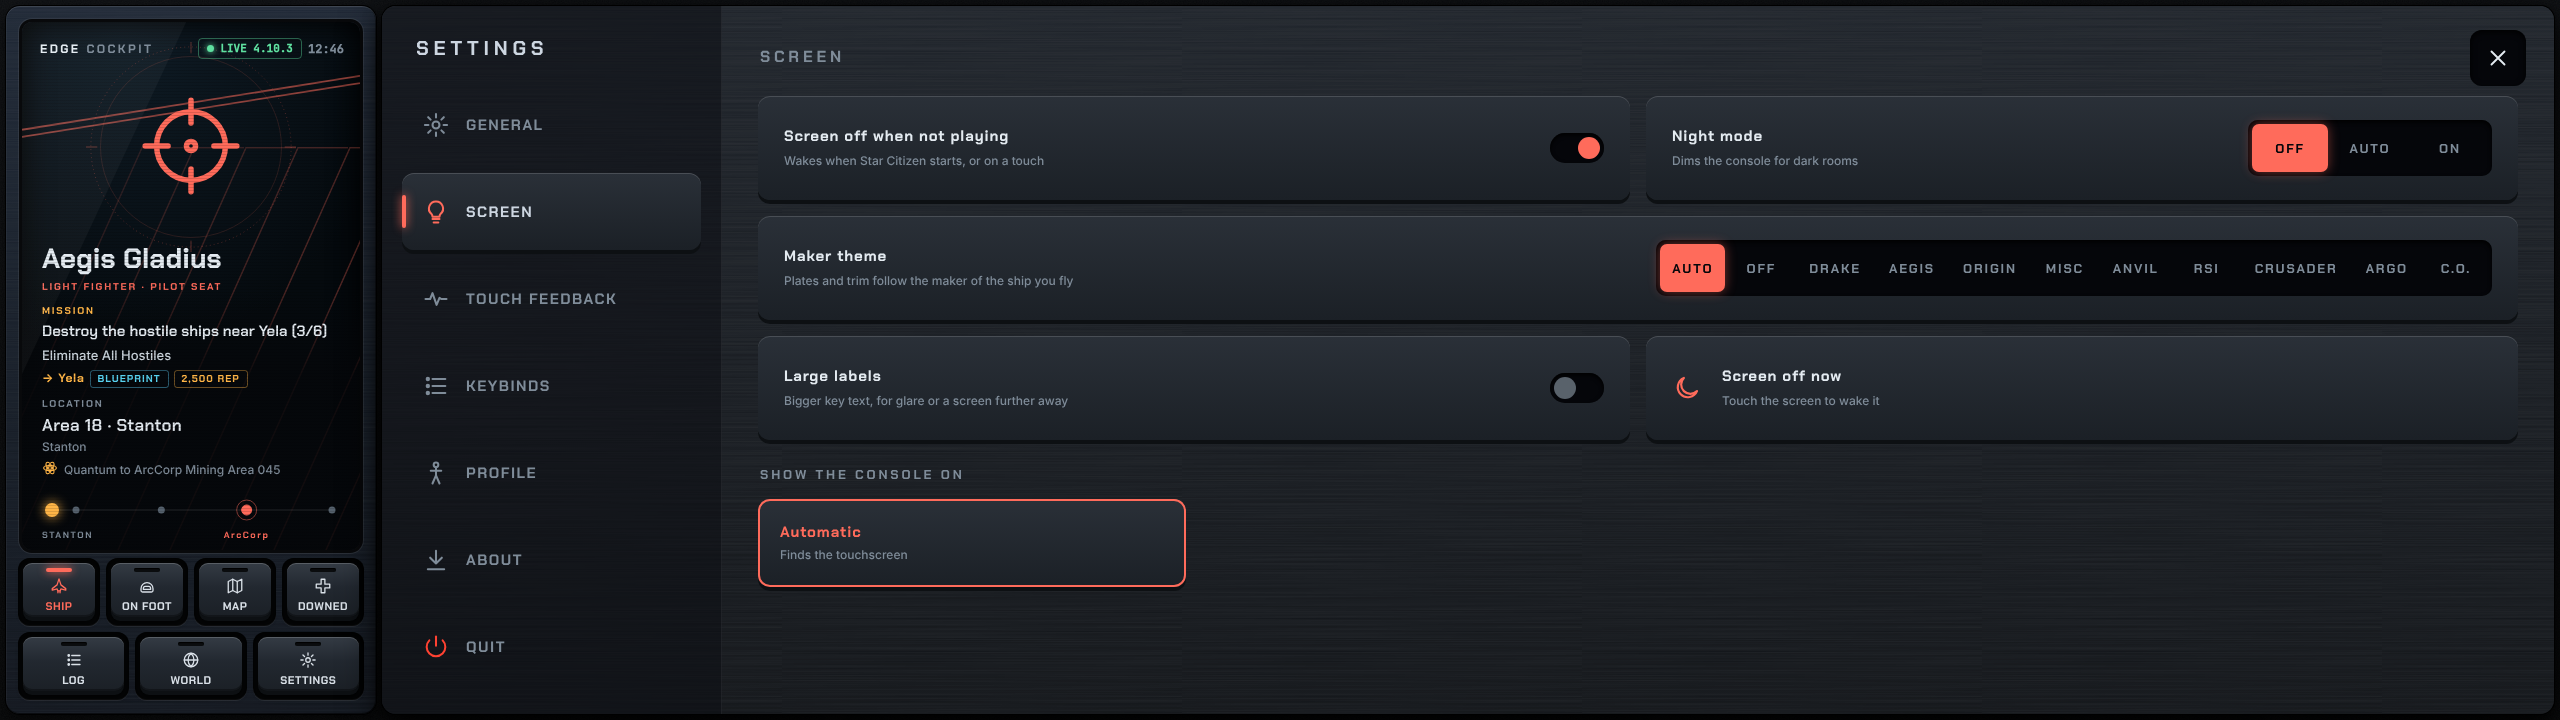
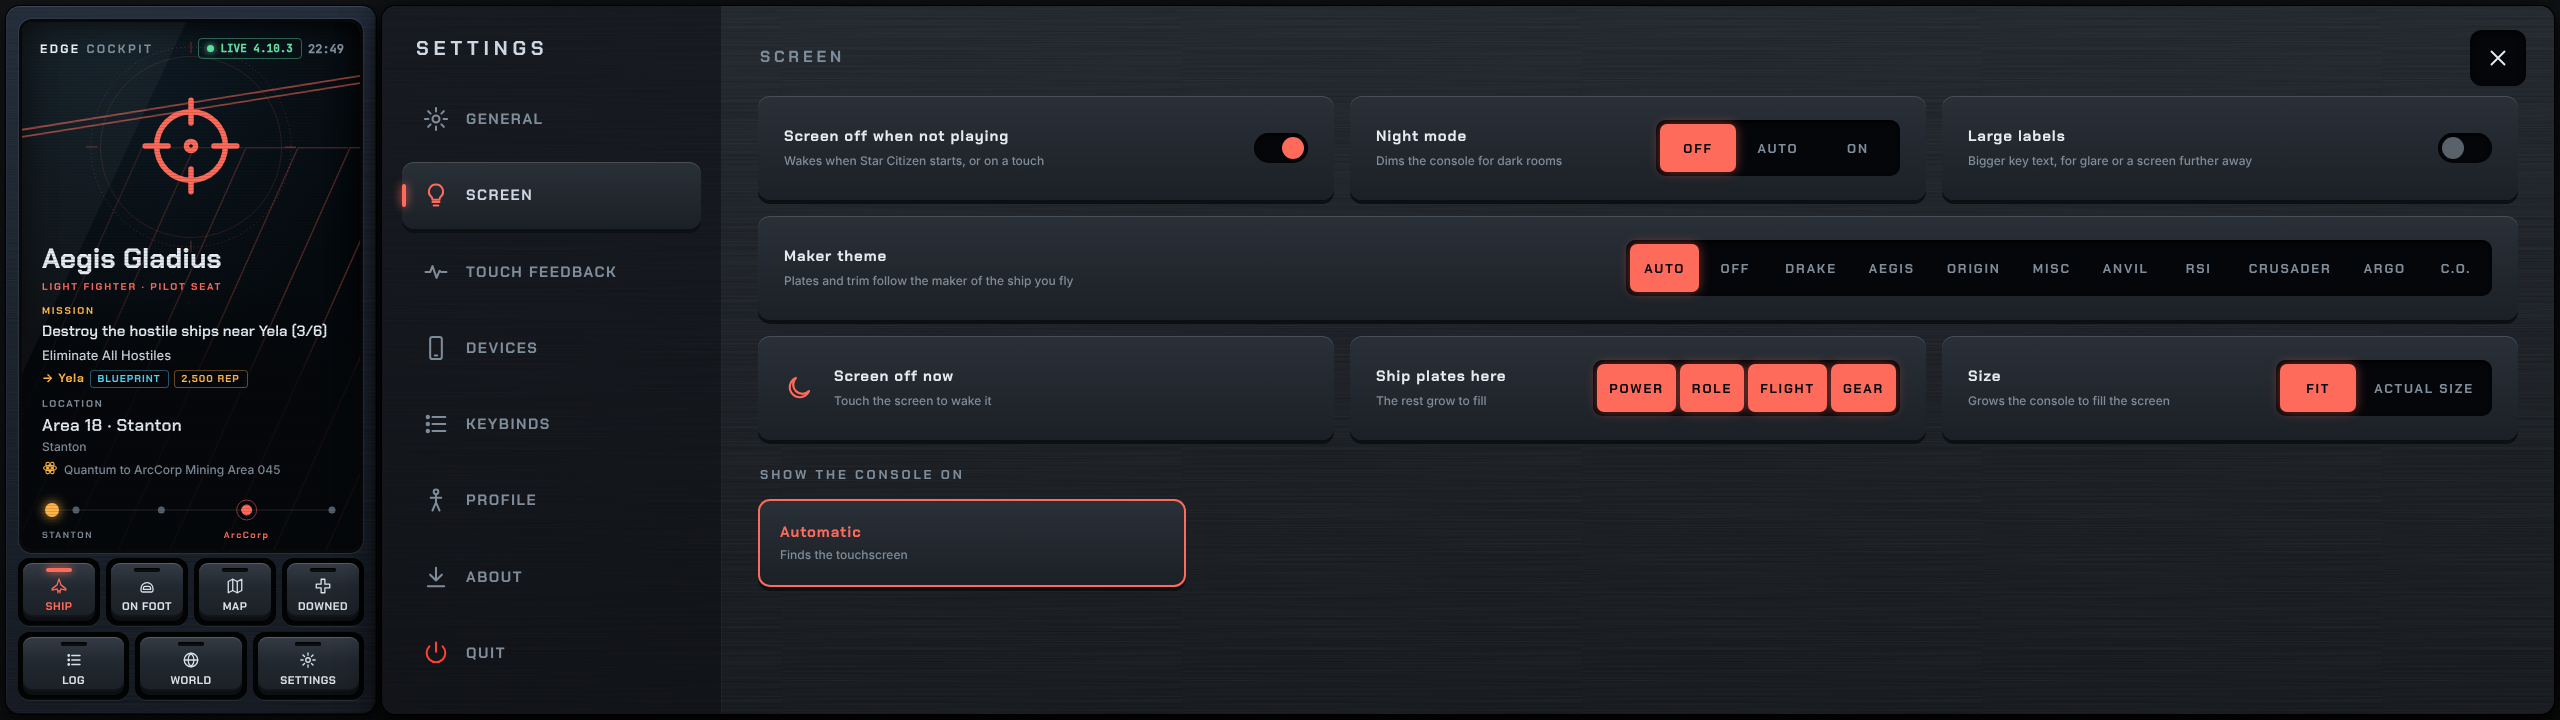
Version 0.9.0: pages of your own (#51)
Settings screenshot retaken: the Screen pane gained Ship plates here
and Size, and the menu gained Devices.

Claude-Session: https://claude.ai/code/session_019a7Xd4NjGX9fwJAFNTYPm7

diff --git a/CHANGELOG.md b/CHANGELOG.md
@@ -1,12 +1,11 @@
 # Changelog
 
-## Unreleased
+## 0.9.0
 
 - Your keys: long-press any tap key to swap it for another. A cyan dot marks keys you changed; Back to stock undoes it. Kept per page and in saved profiles.
 - Key picker: Suggested first (keys like the one you replace, then your recent picks), sub-groups in each tab, toggle / on / off as one tile, and search on its own keyboard.
 - Arrange mode (long-press a plate title) also picks the role module, so a ship page can carry another module. Saved per role.
 - Settings > Screen: choose which ship plates this screen shows; the rest leave and the others grow to fill it. Size: Fit, or Actual size (never larger than designed).
-- Groundwork for your own pages: a page format (stock plates with your changes, plates of your own on a 16 px grid) and its renderer. Your pages come after the curated ones, which are unchanged. The rules hold on load too: a switch needs set-on/set-off binds, eject-type keys need a cover or slide.
 - Page editor: long-press a ship page's title, then New blank page or Duplicate & edit. Long-press the title of a page of yours to edit it again.
   - Drag controls from the palette (where the status display sits) onto a plate; they snap to a 16 px grid, with guides to line them up. Tap one for its card: key, label, size, duplicate, remove. Drag to move, drag the corner to resize.
   - Stock plates on a duplicated page: move or remove their controls; Back to stock undoes it. Add, remove, reorder and size your own plates.
@@ -18,7 +17,7 @@
   - Phone: the editor previews a plate as an upright phone folds it.
   - Share saves the page to Documents\Edge Cockpit\Pages; Import (arrange mode) adds a page file from there as a new page. Profiles carry your pages too.
   - Devices show your pages, and a tablet or PC showing the whole console can edit them: the Edge shows each change live, and Done saves on the PC.
-- README and site: pages of your own, with an editor screenshot.
+- README and site: pages of your own, with an editor screenshot. The Settings screenshot is retaken.
 - CI: every PR pixel-compares all curated pages and phone views against its base.
 
 ## 0.8.0
